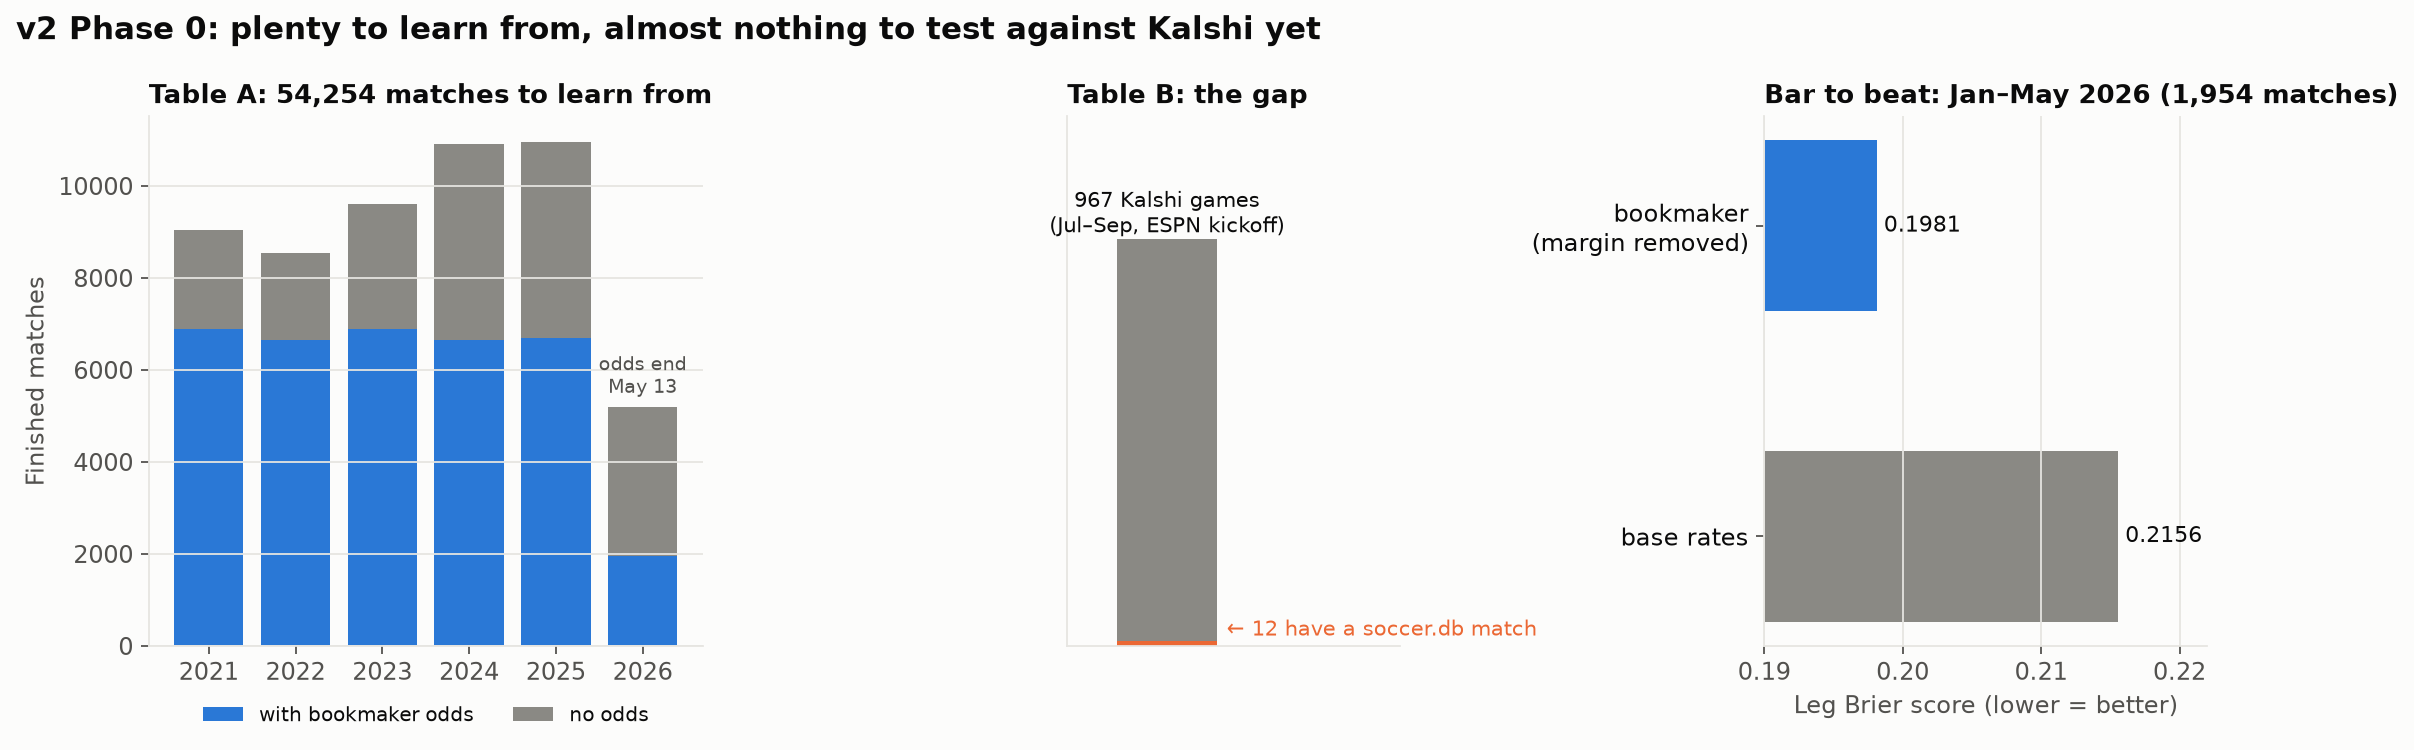
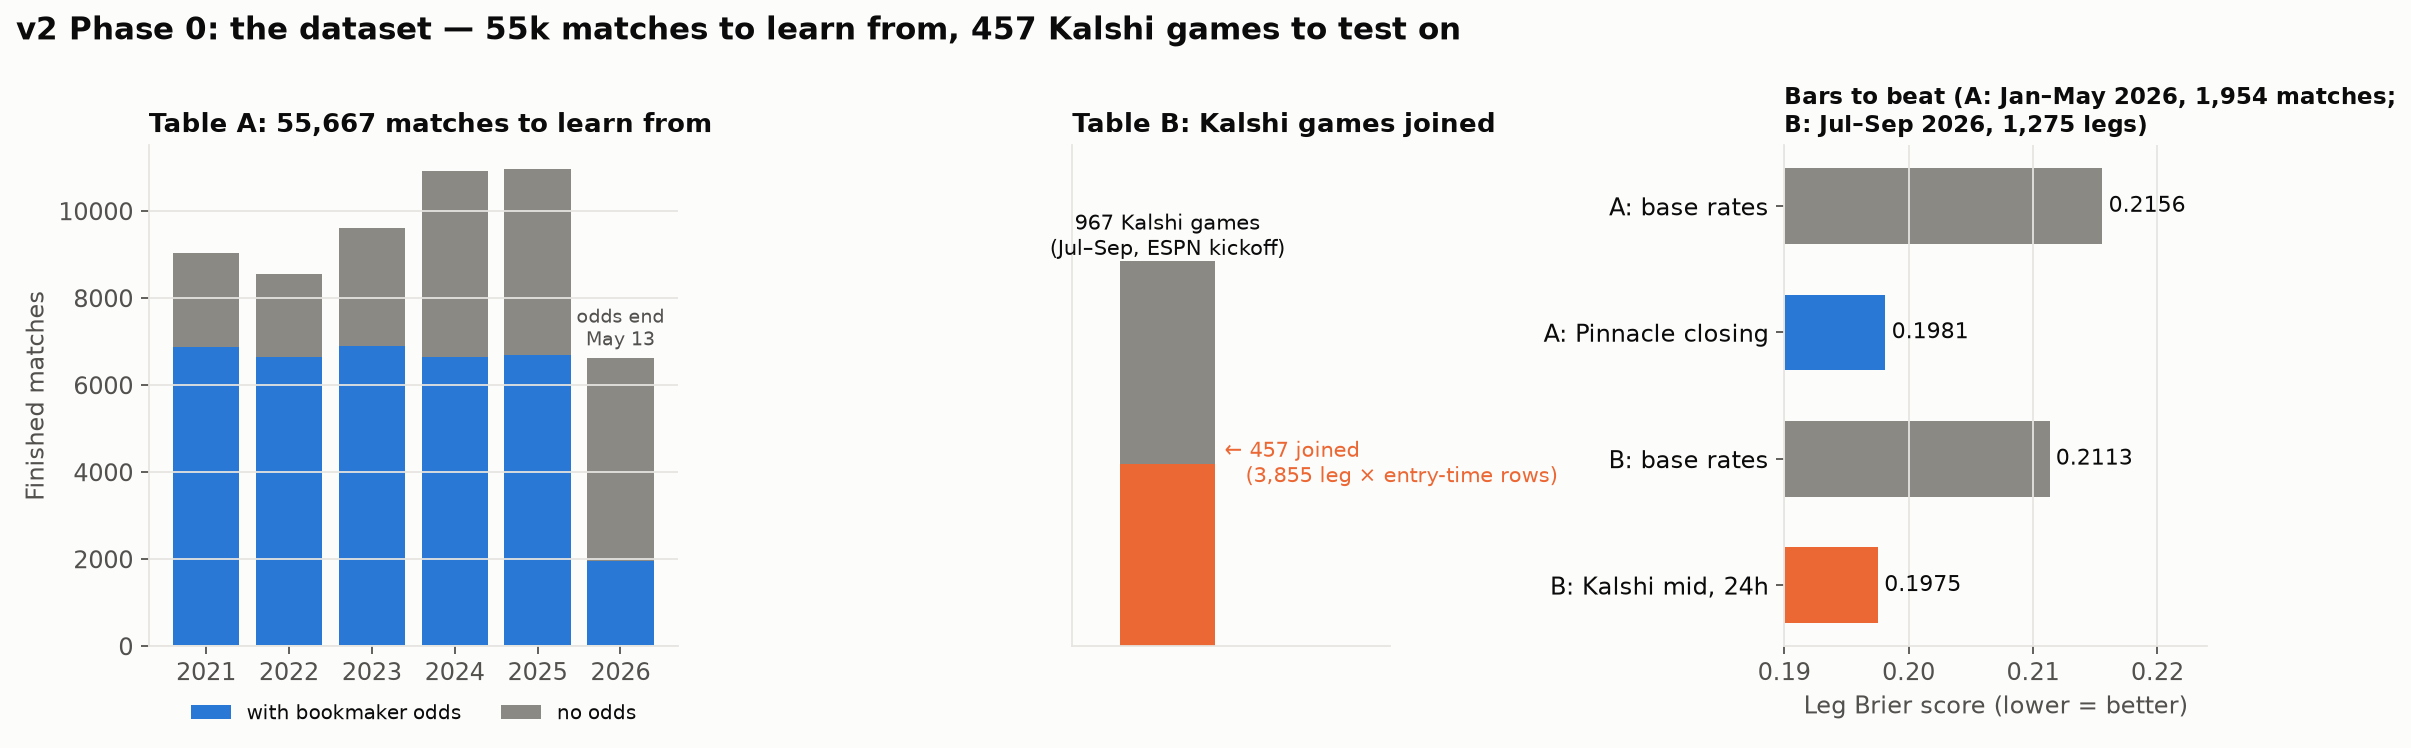
Finding 08 updated: Phase 0 done; the bar is Pinnacle closing
Table A: 55,667 matches; the odds are 96%+ Pinnacle closing (data lake data
dictionary), leg Brier 0.1981 on Jan-May 2026. Table B: 457/967 Kalshi
games; Kalshi mid at 24h scores 0.1975.

diff --git a/scripts/phase0_charts.py b/scripts/phase0_charts.py
@@ -49,28 +49,33 @@ def main():
     a2.bar([0], [j], color=ORANGE, width=0.6)
     a2.text(0, n + 15, f"{n} Kalshi games\n(Jul–Sep, ESPN kickoff)", ha="center", fontsize=9.5,
             color=INK)
-    a2.text(0.36, j, f"← {j} have a soccer.db match", va="bottom", fontsize=9.5, color=ORANGE)
+    a2.text(0.36, j, f"← {j} joined\n   ({info['kalshi_rows']:,} leg × entry-time rows)",
+            va="center", fontsize=9.5, color=ORANGE)
     a2.set_xlim(-0.6, 1.4)
     a2.set_ylim(0, n * 1.3)
     a2.set_xticks([])
     a2.set_yticks([])
     a2.grid(axis="x", visible=False)
-    a2.set_title("Table B: the gap", fontsize=11.5)
+    a2.set_title("Table B: Kalshi games joined", fontsize=11.5)
 
     b = info["baselines"]
-    labels = ["base rates", "bookmaker\n(margin removed)"]
-    vals = [b["A_test"]["brier_base_rate"], b["A_test"]["brier_bookmaker"]]
-    a3.barh([0, 1], vals, color=[MUTED, BLUE], height=0.55)
-    for i, v in enumerate(vals):
+    rows = [("A: base rates", b["A_test"]["brier_base_rate"], MUTED),
+            ("A: Pinnacle closing", b["A_test"]["brier_bookmaker"], BLUE),
+            ("B: base rates", b["B_24h"]["brier_base_rate"], MUTED),
+            ("B: Kalshi mid, 24h", b["B_24h"]["brier_kalshi_mid"], ORANGE)]
+    for i, (lab, v, c) in enumerate(rows):
+        a3.barh(i, v, color=c, height=0.6)
         a3.text(v + 0.0005, i, f"{v:.4f}", va="center", fontsize=10, color=INK)
-    a3.set_yticks([0, 1])
-    a3.set_yticklabels(labels, color=INK)
-    a3.set_xlim(0.19, 0.222)
+    a3.set_yticks(range(len(rows)))
+    a3.set_yticklabels([r[0] for r in rows], color=INK)
+    a3.invert_yaxis()
+    a3.set_xlim(0.19, 0.224)
     a3.set_xlabel("Leg Brier score (lower = better)")
     a3.grid(axis="y", visible=False)
-    a3.set_title(f"Bar to beat: Jan–May 2026 ({b['A_test']['matches']:,} matches)", fontsize=11.5)
+    a3.set_title(f"Bars to beat (A: Jan–May 2026, {b['A_test']['matches']:,} matches;\n"
+                 f"B: Jul–Sep 2026, {b['B_24h']['legs']:,} legs)", fontsize=10.5)
 
-    fig.suptitle("v2 Phase 0: plenty to learn from, almost nothing to test against Kalshi yet",
+    fig.suptitle("v2 Phase 0: the dataset — 55k matches to learn from, 457 Kalshi games to test on",
                  x=0.01, ha="left", fontsize=14, fontweight="bold", color=INK)
     fig.tight_layout()
     save(fig, "17_phase0_dataset.png")

diff --git a/docs/findings/08_DATASET.md b/docs/findings/08_DATASET.md
@@ -7,28 +7,36 @@ Branch `feat/v2-dataset`. Build: `python -m wc.research.dataset` (≈3 s), then
 
 ## Table A: learn + practice exam ✅
 
-- **54,254 finished matches, 2021 → Sep 2026,** with **35,693 carrying bookmaker odds** (until 2026-05-13).
-- Splits: train 38,099 · tune 10,958 · test 4,756 · Kalshi period 441.
-- **23 point-in-time features per match,** rebuilt in one forward pass. 15 tests cover the no-peek rule, the ordering of results and cutoffs, venue-specific records, head-to-head orientation and the 365-day league window.
-- **The first bar to beat (Jan–May 2026, 1,954 matches with odds), leg Brier score:**
-  - base rates: **0.2156**
-  - bookmaker, margin removed: **0.1981**
-  - A model has to get below about **0.198** to beat the bookmaker, or show it **adds information** alongside them (Gate 2).
+- **55,667 finished matches, 2021 → Sep 2026:**
+  - 54,254 from `soccer.db`
+  - **+1,314 from the ESPN cache** and **+99 from Kalshi settlements**, filling Jun–Sep
+- **35,693 carry bookmaker odds** until 2026-05-13, and they are **"96%+ Pinnacle closing"** (the data lake's own data dictionary). Pinnacle's last price before kickoff is the sharpest public price, so it's a **hard, honest bar**.
+- Splits: train 38,099 · tune 10,958 · test 4,756 · Kalshi period 1,854.
+- **23 point-in-time features**, rebuilt in one forward pass. 22 tests.
 
-## Table B: final exam vs Kalshi ❌, a data gap
+## Table B: final exam vs Kalshi ✅ (partial coverage)
 
-- **967** Kalshi games (Jul–Sep, ESPN kickoff), and **only 12** join a `soccer.db` match.
-- **Cause:** `soccer.db` has almost no results after May 2026 (the data lake ends 2026-07-04; openfootball covers mainly the top European leagues). Kalshi's games are mostly lower leagues (Argentina Nacional B, Brasileiro B, …).
-- So the model **can** learn these teams from 2021 to May, but it **can't see their Jun–Sep results**, and has nothing to be tested against.
+- **457 of 967** Kalshi games join, which gives **3,855 rows** (leg × entry time of 24h / 6h / 1h), about 1,290 legs per entry time.
+- **Sanity check:** every game has 3 distinct sides. 3 game-times lack the winning leg because it had no valid quote at 24h; nothing is mislabelled.
+- **Still unmatched (510):** mostly leagues or teams `soccer.db` doesn't know (Bolivia, Chile, Paraguay, Belgium, 2. Bundesliga, ASEAN) or ambiguous names. The droplet store wouldn't fix this, because it's a team-history gap, not a price gap.
 
-## Ways to fill it using data already on the laptop (no new collection)
+## How the gap was filled (data already on the laptop)
 
-1. **The ESPN scoreboard cache** (`data/espn_cache/`, downloaded to build the kickoff table) holds **final scores for every ESPN soccer game** on about 90 days of Jul–Sep. That's results with goals, already on disk.
-2. **Kalshi's own settled markets:** every settled game tells us home win, draw or away win, without goals. `derived.py` already uses this.
-3. The droplet store (deferred): more Kalshi games, so more results and a bigger Table B.
+- **ESPN cache** (`data/espn_cache/`, 10,430 finished games, Jul 7 → Sep 29) is the main source, with goals.
+  - Kalshi settles on **90 minutes**, so games that went to extra time or penalties count as **draws**, with goals unknown.
+- **Kalshi settlements** are the fallback (home / draw / away, no goals).
+- **Team names are resolved in pairs:** both teams must share a league they've played in. That tells apart the same name in different countries ("Nacional" in Uruguay vs Paraguay). Duplicates of `soccer.db` games (same teams within ±36h) are skipped.
 
-**Recommendation:** add 1 as the main source and 2 as a fallback, mapping team names to `soccer.db` keys with the tested name matcher. Then re-join.
+## Bars to beat (leg Brier score, lower = better)
 
-## Open check
+| Table | Period | Base rates | Market |
+|---|---|---|---|
+| A | Jan–May 2026, 1,954 matches | 0.2156 | **Pinnacle closing 0.1981** |
+| B | Jul–Sep 2026, 1,275 legs at 24h | 0.2113 | **Kalshi mid 0.1975** |
 
-- The bookmaker odds are "the first bookmaker per fixture" from the data lake. Which bookmaker, and opening or closing prices, is unknown. If they're opening odds, 0.198 is an **easy** bar and closing odds would be harder.
+- The two markets score about the same, on different games. A model must **beat, or add information to, prices that are this accurate.**
+
+## Next: Phase 1 (baseline models)
+
+- Train on Table A (2021–2024), tune on 2025, score on Jan–May 2026 against Pinnacle, and on Table B against Kalshi.
+- Gate 2 (adds information?) is the one to watch.

diff --git a/docs/NEXT_CHAPTER_v2.md b/docs/NEXT_CHAPTER_v2.md
@@ -85,13 +85,13 @@ where a real edge would first show up.**
   - Table B: final exam, Jul–Sep 2026
 - **Output:** `data/research/v2_dataset.db` (tables `ds_matches`, `ds_kalshi`), regenerable and gitignored.
 - **First bars to beat:** leg Brier score of the base rates, the bookmaker (Table A) and Kalshi (Table B).
-- **Open check:** the data lake keeps "the first bookmaker per fixture". Which bookmaker, and opening vs closing odds, are unknown.
+- **Checked:** the odds are "96%+ Pinnacle closing" (data lake data dictionary), a hard benchmark.
 
 ## Phase 0 status ([Finding 08](findings/08_DATASET.md))
 
-- ✅ Table A built: 54,254 matches, 35,693 with odds. Bar to beat (Jan–May 2026): bookmaker leg Brier **0.1981** vs base rates 0.2156.
-- ❌ Table B: only 12 of 967 Kalshi games join, because `soccer.db` has almost no results after May 2026.
-- **Next:** fill Jun–Sep results from the ESPN cache (already on disk), with Kalshi's settled markets as a fallback, then re-join.
+- ✅ **Phase 0 done.** Table A: 55,667 matches; the bar is **Pinnacle closing** leg Brier 0.1981 (Jan–May 2026).
+- ✅ Table B: 457 of 967 Kalshi games (3,855 rows); Kalshi mid at 24h scores 0.1975. The Jun–Sep gap was filled from the ESPN cache and Kalshi settlements, both already on disk.
+- **Next: Phase 1 baselines.**
 
 ## Settled: price-blind betting doesn't work ([Finding 07](findings/07_PRICE_VS_MODEL.md))
 
